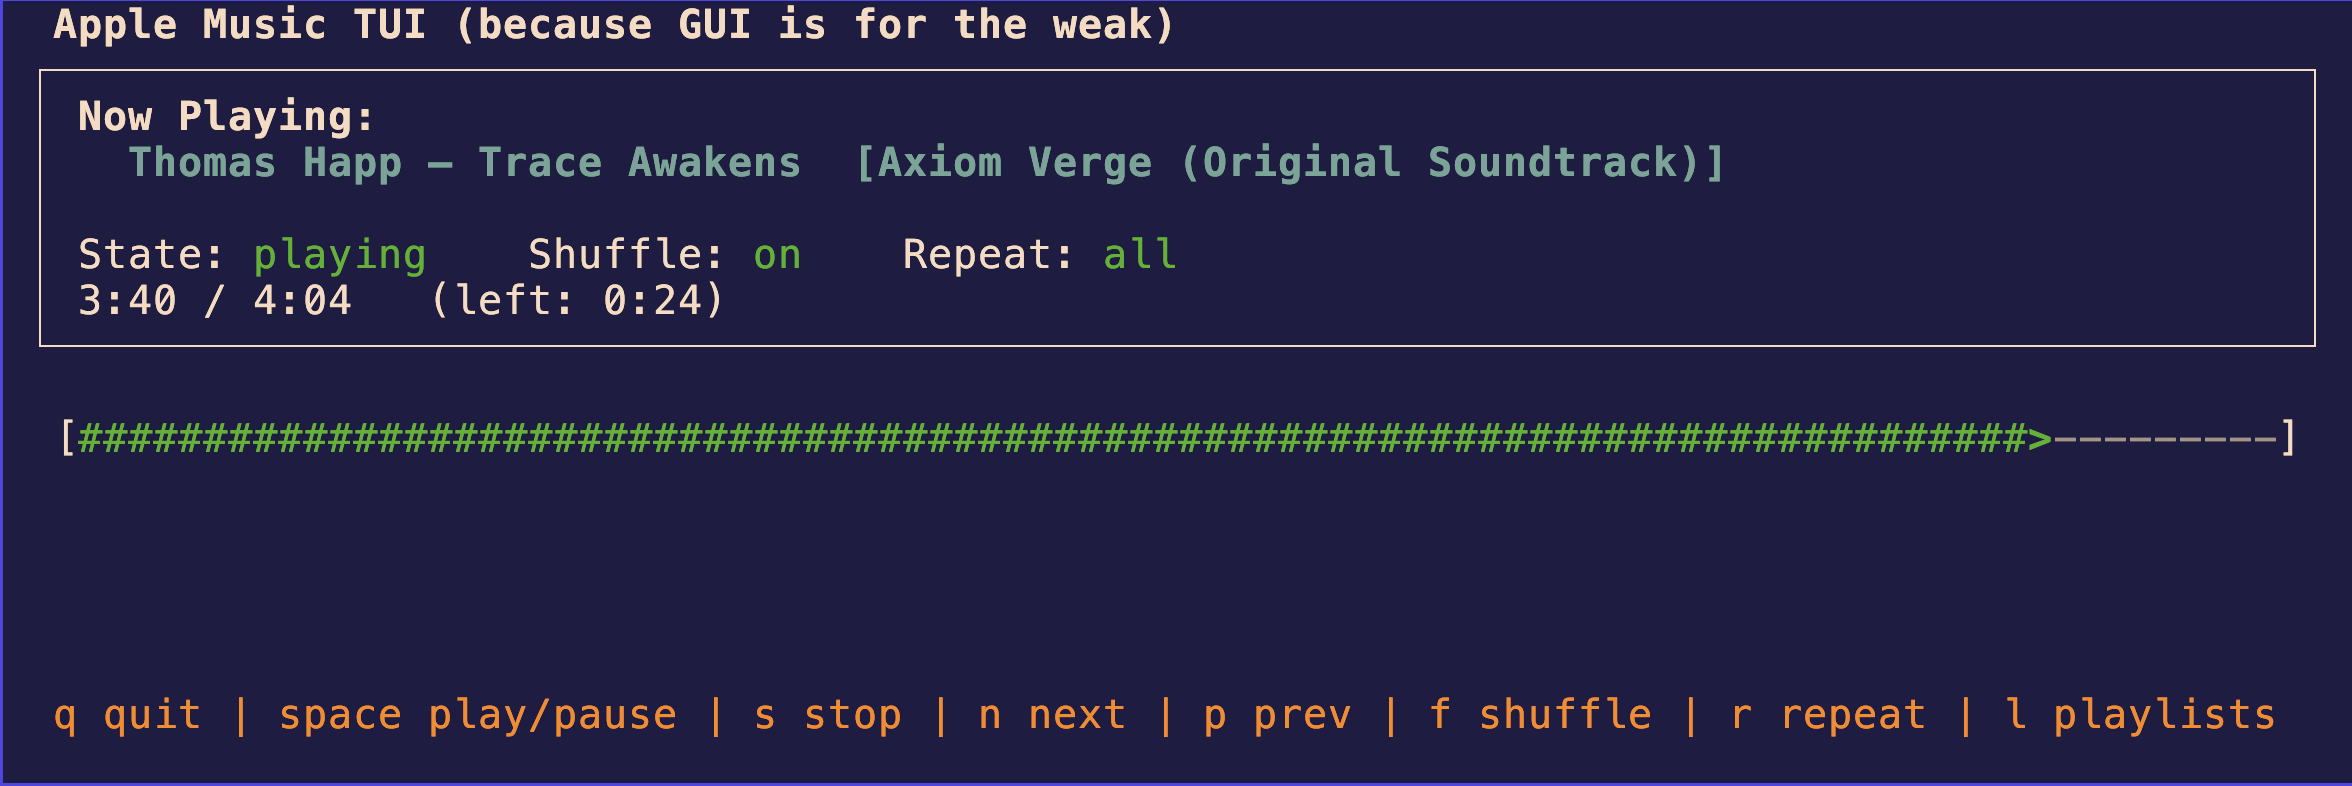
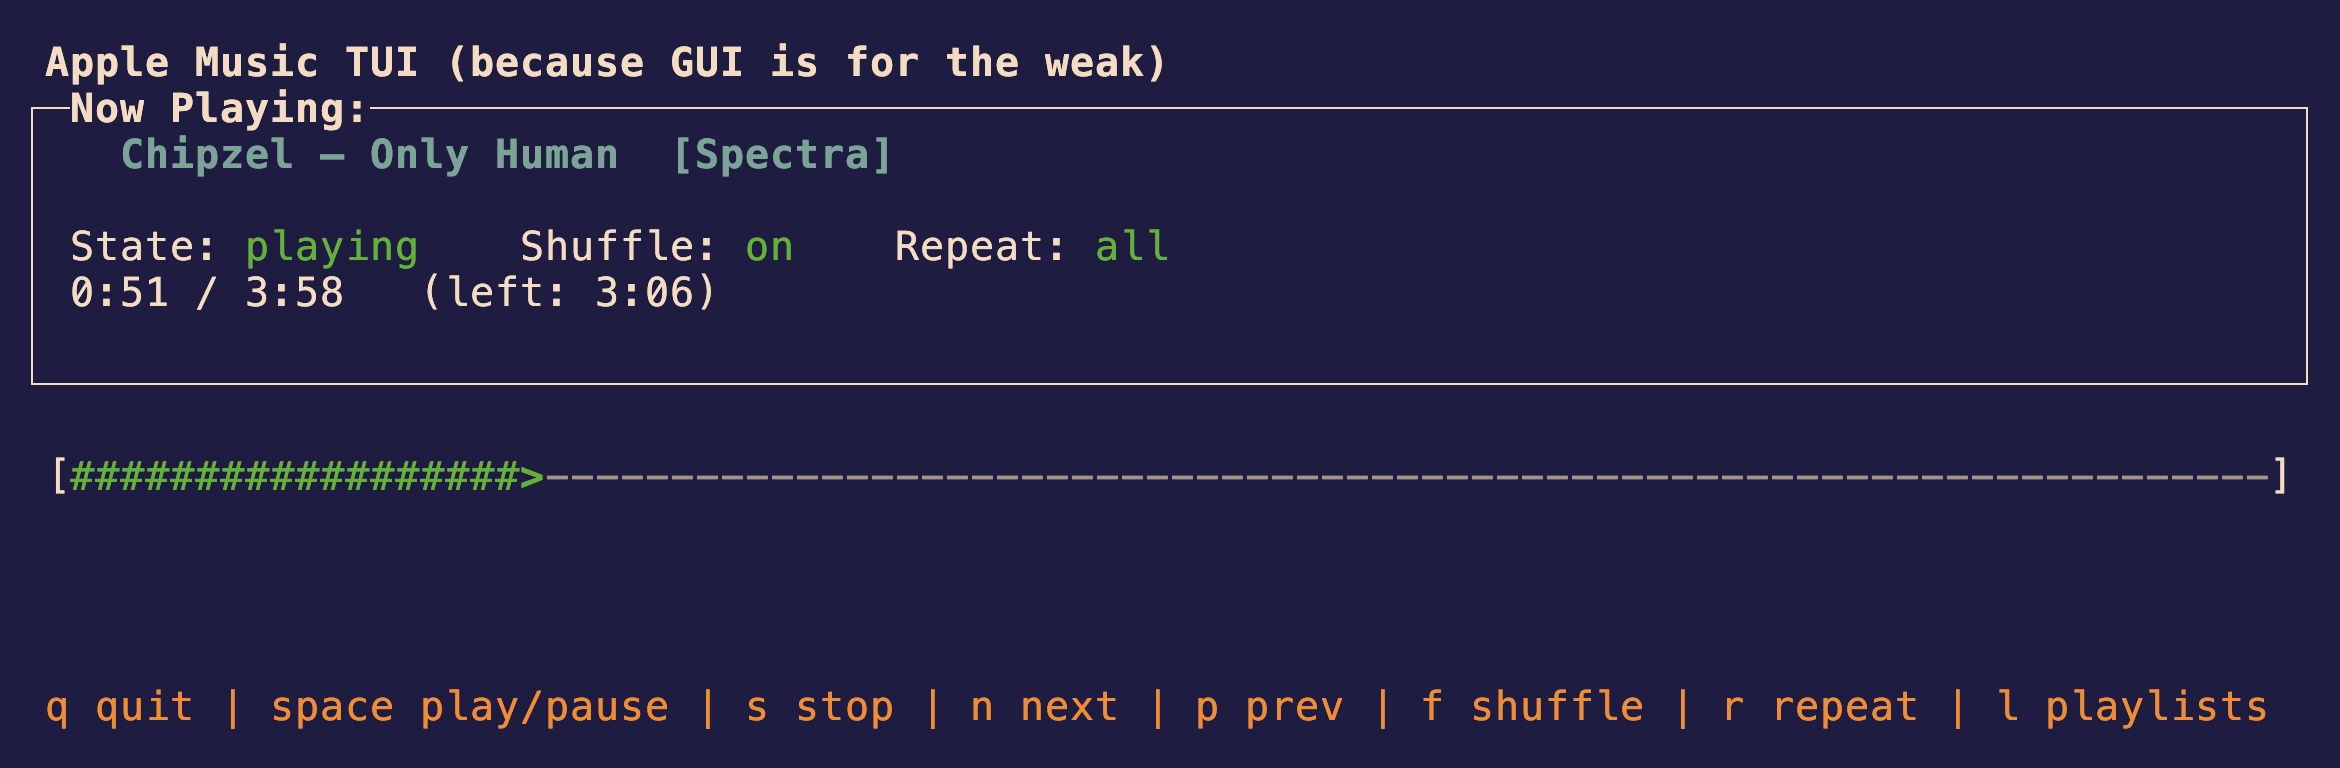
additional image update

diff --git a/music_tui.py b/music_tui.py
@@ -448,7 +448,7 @@ def run_tui(stdscr):
         h, w = stdscr.getmaxyx()
 
         # Minimum size guard
-        MIN_COLS, MIN_ROWS = 40, 15
+        MIN_COLS, MIN_ROWS = 40, 16
         if w < MIN_COLS or h < MIN_ROWS:
             msg = "Terminal too small — please resize"
             safe_addstr(stdscr, h // 2, max(0, (w - len(msg)) // 2), msg, curses.A_BOLD)
@@ -459,12 +459,12 @@ def run_tui(stdscr):
         # Title — truncate with ellipsis if terminal is narrow
         title_full = "Apple Music TUI (because GUI is for the weak)"
         title = title_full if len(title_full) + 2 <= w else title_full[: w - 5] + "…"
-        safe_addstr(stdscr, 0, 2, title, curses.A_BOLD)
+        safe_addstr(stdscr, 1, 2, title, curses.A_BOLD)
 
         if mode == Mode.MAIN:
             # Box around now playing section
             box_x = 1
-            box_y = 1
+            box_y = 2
             box_w = w - 2
             box_h = 7
             draw_box(stdscr, box_y, box_x, box_h, box_w)
